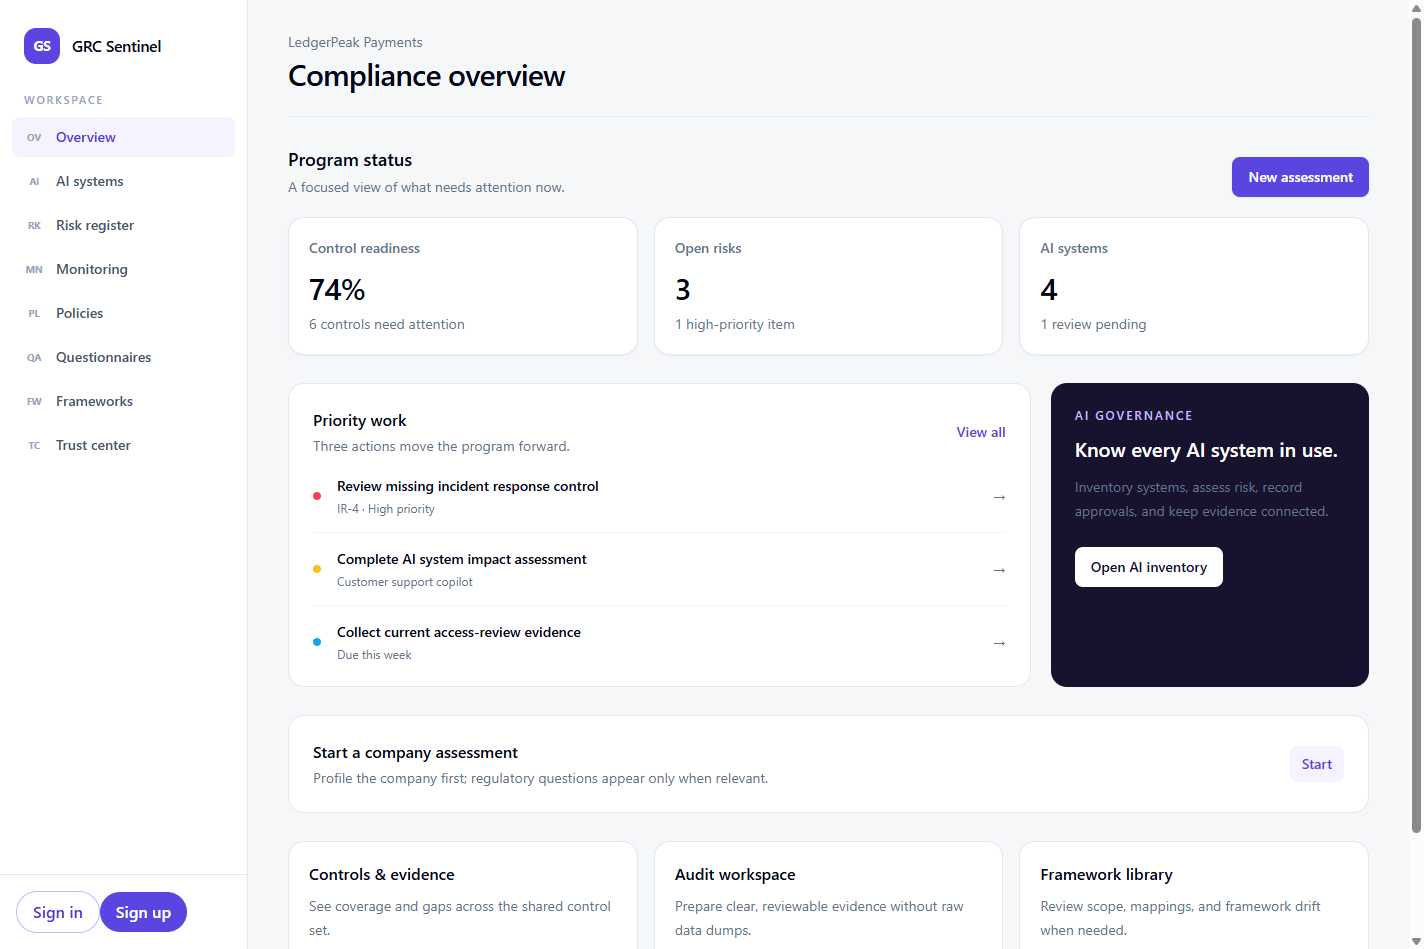
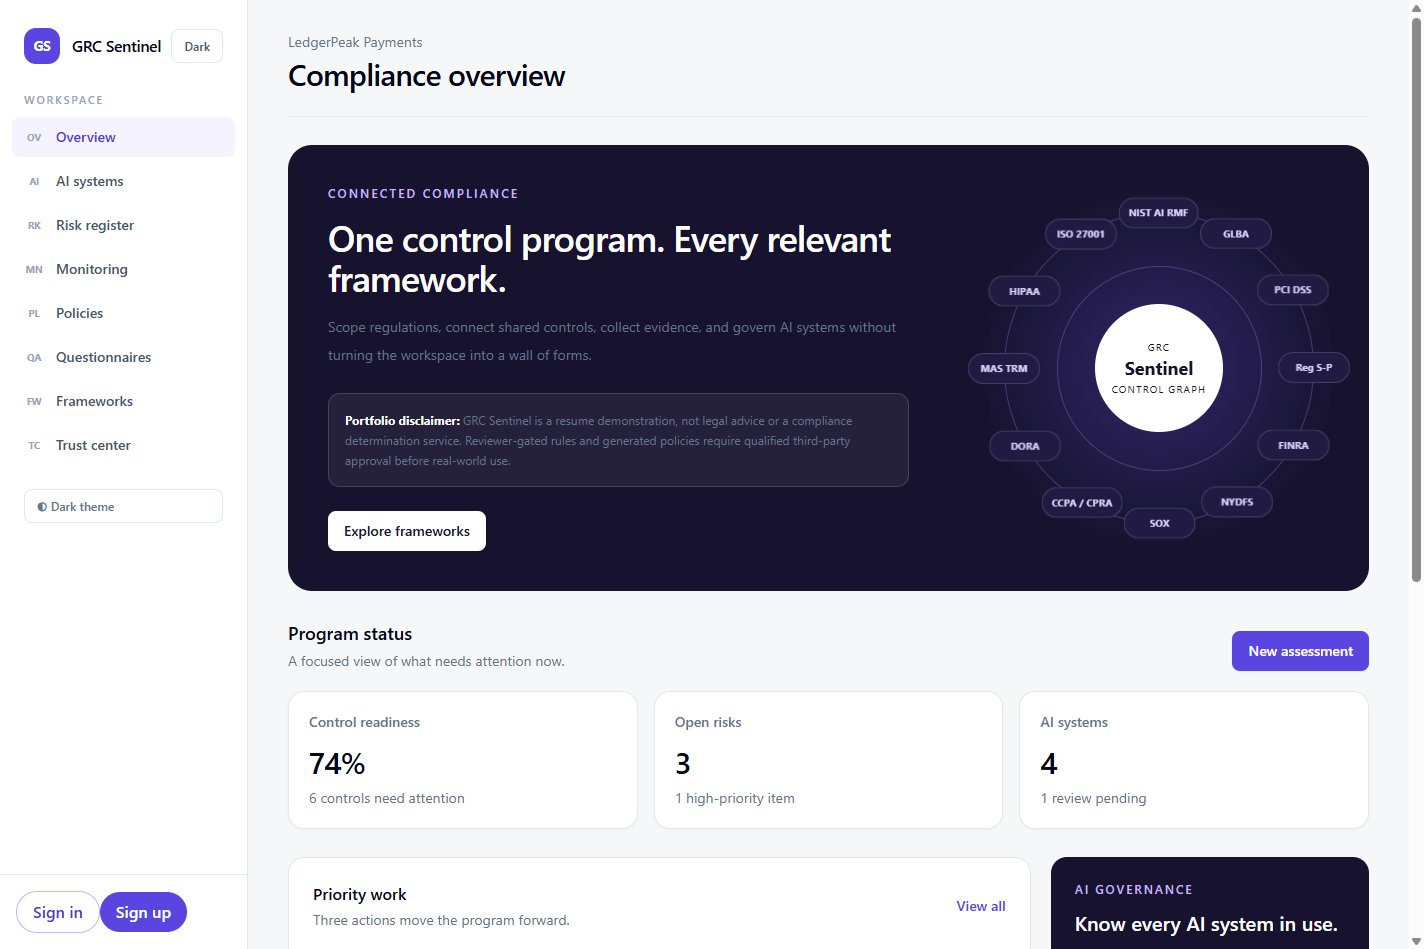
Add compliance orbit and theme switcher

diff --git a/apps/web/src/app/globals.css b/apps/web/src/app/globals.css
@@ -66,6 +66,89 @@ body {
   border-color: #e2e8f0;
 }
 
+.compliance-wheel {
+  position: relative;
+  min-height: 390px;
+  display: grid;
+  place-items: center;
+  background: radial-gradient(circle, rgba(104, 78, 232, 0.32), transparent 58%);
+}
+
+.compliance-wheel::before,
+.compliance-wheel::after {
+  content: "";
+  position: absolute;
+  width: 310px;
+  height: 310px;
+  border: 1px solid rgba(196, 181, 253, 0.25);
+  border-radius: 999px;
+}
+
+.compliance-wheel::after {
+  width: 205px;
+  height: 205px;
+}
+
+.compliance-wheel__core {
+  z-index: 2;
+  display: grid;
+  width: 128px;
+  height: 128px;
+  place-content: center;
+  border: 1px solid rgba(255, 255, 255, 0.2);
+  border-radius: 999px;
+  background: #fff;
+  color: #17132f;
+  text-align: center;
+}
+
+.compliance-wheel__core span,
+.compliance-wheel__core small { font-size: 10px; text-transform: uppercase; letter-spacing: 0.12em; }
+.compliance-wheel__core strong { font-size: 18px; }
+.compliance-wheel__track { position: absolute; width: 310px; height: 310px; animation: orbit-spin 38s linear infinite; }
+.compliance-wheel__item { position: absolute; left: 50%; top: 50%; transform: rotate(var(--angle)) translateY(-155px); transform-origin: 0 0; }
+.compliance-wheel__item > span { display: block; min-width: 72px; transform: translate(-50%, -50%) rotate(var(--reverse-angle)); border: 1px solid rgba(255,255,255,.16); border-radius: 999px; background: #211b43; padding: 7px 9px; color: #ddd6fe; font-size: 10px; font-weight: 700; text-align: center; white-space: nowrap; animation: orbit-counter-spin 38s linear infinite; }
+
+@keyframes orbit-spin { to { transform: rotate(360deg); } }
+@keyframes orbit-counter-spin { to { transform: translate(-50%, -50%) rotate(calc(var(--reverse-angle) - 360deg)); } }
+
+html[data-theme="dark"] body,
+html[data-theme="dark"] .app-shell { background: #0d0b18; color: #f8fafc; }
+html[data-theme="dark"] .app-shell > aside,
+html[data-theme="dark"] .app-shell > aside > div,
+html[data-theme="dark"] .app-shell main,
+html[data-theme="dark"] .app-shell main.bg-black,
+html[data-theme="dark"] .app-shell main .bg-black,
+html[data-theme="dark"] .app-shell main .bg-white,
+html[data-theme="dark"] .app-shell main .bg-zinc-950 { background: #151225; color: #f8fafc; }
+html[data-theme="dark"] .app-shell main.bg-\[\#f5f7f9\] { background: #0d0b18; }
+html[data-theme="dark"] .app-shell .border-slate-200,
+html[data-theme="dark"] .app-shell main .border-zinc-700,
+html[data-theme="dark"] .app-shell main .border-zinc-800 { border-color: #312d46; }
+html[data-theme="dark"] .app-shell .text-slate-950,
+html[data-theme="dark"] .app-shell .text-slate-100 { color: #f8fafc; }
+html[data-theme="dark"] .app-shell .text-slate-500,
+html[data-theme="dark"] .app-shell .text-slate-400,
+html[data-theme="dark"] .app-shell .text-slate-300 { color: #aaa5bd; }
+html[data-theme="dark"] .app-shell .bg-violet-50 { background: rgba(255,255,255,.1); }
+html[data-theme="dark"] .app-shell button.bg-\[\#5b45e0\],
+html[data-theme="dark"] .app-shell a.bg-\[\#5b45e0\] { background: #fff; color: #17132f; }
+html[data-theme="dark"] .hero-panel,
+html[data-theme="dark"] .hero-panel h2 { color: #fff; }
+html[data-theme="dark"] .hero-panel .compliance-wheel__core { background: #fff; color: #17132f; }
+
+@media (max-width: 640px) {
+  .compliance-wheel { min-height: 340px; }
+  .compliance-wheel::before,
+  .compliance-wheel__track { width: 270px; height: 270px; }
+  .compliance-wheel__item { transform: rotate(var(--angle)) translateY(-135px); }
+}
+
+@media (prefers-reduced-motion: reduce) {
+  .compliance-wheel__track,
+  .compliance-wheel__item > span { animation-play-state: paused; }
+}
+
 .scope-form > fieldset:nth-of-type(n + 2):nth-of-type(-n + 10) {
   display: none;
 }

diff --git a/apps/web/src/components/app-shell.tsx b/apps/web/src/components/app-shell.tsx
@@ -2,6 +2,7 @@
 
 import Link from "next/link";
 import { usePathname } from "next/navigation";
+import { useEffect, useState } from "react";
 import { AuthControls } from "./auth-controls";
 
 const navigation = [
@@ -17,6 +18,21 @@ const navigation = [
 
 export function AppShell({ children }: { children: React.ReactNode }) {
   const pathname = usePathname();
+  const [dark, setDark] = useState(false);
+
+  useEffect(() => {
+    const saved = localStorage.getItem("grc-theme") === "dark";
+    setDark(saved);
+    document.documentElement.dataset.theme = saved ? "dark" : "light";
+  }, []);
+
+  function toggleTheme() {
+    const next = !dark;
+    setDark(next);
+    document.documentElement.dataset.theme = next ? "dark" : "light";
+    localStorage.setItem("grc-theme", next ? "dark" : "light");
+  }
+
   if (pathname.startsWith("/sign-") || pathname.startsWith("/audit/share/")) return children;
 
   return (
@@ -27,12 +43,12 @@ export function AppShell({ children }: { children: React.ReactNode }) {
             <span className="grid size-9 place-items-center rounded-xl bg-[#5b45e0] text-sm font-bold text-white">GS</span>
             <span>GRC Sentinel</span>
           </Link>
-          <details className="relative lg:hidden">
+          <div className="flex items-center gap-2"><button type="button" onClick={toggleTheme} className="rounded-lg border border-slate-200 px-3 py-2 text-xs font-semibold text-slate-600" aria-label={`Use ${dark ? "light" : "dark"} theme`}>{dark ? "Light" : "Dark"}</button><details className="relative lg:hidden">
             <summary className="cursor-pointer list-none rounded-lg border border-slate-200 px-3 py-2 text-sm">Menu</summary>
             <nav className="absolute right-0 z-30 mt-2 w-56 rounded-xl border border-slate-200 bg-white p-2 shadow-xl">
               {navigation.map(([href, label]) => <Link key={href} href={href} className="block rounded-lg px-3 py-2 text-sm hover:bg-slate-100">{label}</Link>)}
             </nav>
-          </details>
+          </details></div>
         </div>
         <nav className="hidden px-3 lg:block" aria-label="Primary navigation">
           <p className="px-3 pb-2 text-[11px] font-semibold uppercase tracking-[0.16em] text-slate-400">Workspace</p>
@@ -41,6 +57,7 @@ export function AppShell({ children }: { children: React.ReactNode }) {
             return <Link key={href} href={href} className={`mb-1 flex items-center gap-3 rounded-lg px-3 py-2.5 text-sm font-medium ${active ? "bg-violet-50 text-[#5138d4]" : "text-slate-600 hover:bg-slate-50 hover:text-slate-950"}`}><span className="w-5 text-center text-[10px] font-bold tracking-tight text-slate-400" aria-hidden>{icon}</span>{label}</Link>;
           })}
         </nav>
+        <button type="button" onClick={toggleTheme} className="mx-6 mt-6 hidden w-[199px] rounded-lg border border-slate-200 px-3 py-2 text-left text-xs font-semibold text-slate-500 lg:block">{dark ? "☀  Light theme" : "◐  Dark theme"}</button>
         <div className="absolute bottom-0 hidden w-[247px] border-t border-slate-200 bg-white p-4 lg:block"><AuthControls /></div>
       </aside>
       <div className="min-w-0">{children}</div>

diff --git a/apps/web/src/app/page.tsx b/apps/web/src/app/page.tsx
@@ -17,6 +17,8 @@ const work = [
   ["Collect current access-review evidence", "Due this week", "/monitoring"],
 ] as const;
 
+const regimes = ["GLBA", "PCI DSS", "Reg S-P", "FINRA", "NYDFS", "SOX", "CCPA / CPRA", "DORA", "MAS TRM", "HIPAA", "ISO 27001", "NIST AI RMF"];
+
 export default function Home() {
   const [assessmentOpen, setAssessmentOpen] = useState(false);
   return (
@@ -26,7 +28,23 @@ export default function Home() {
         <div className="flex items-center gap-3 lg:hidden"><AuthControls /></div>
       </header>
 
-      <section className="py-7" aria-labelledby="program-status">
+      <section className="hero-panel my-7 grid overflow-hidden rounded-3xl bg-[#17132f] text-white lg:grid-cols-[minmax(0,1fr)_420px]" aria-labelledby="platform-heading">
+        <div className="flex flex-col justify-center p-7 sm:p-10">
+          <p className="text-xs font-semibold uppercase tracking-[0.18em] text-violet-300">Connected compliance</p>
+          <h2 id="platform-heading" className="mt-4 max-w-xl text-3xl font-semibold tracking-tight sm:text-4xl">One control program. Every relevant framework.</h2>
+          <p className="mt-4 max-w-xl text-sm leading-7 text-slate-300">Scope regulations, connect shared controls, collect evidence, and govern AI systems without turning the workspace into a wall of forms.</p>
+          <div className="mt-6 rounded-xl border border-white/15 bg-white/[0.06] p-4 text-xs leading-5 text-slate-300"><strong className="text-white">Portfolio disclaimer:</strong> GRC Sentinel is a resume demonstration, not legal advice or a compliance determination service. Reviewer-gated rules and generated policies require qualified third-party approval before real-world use.</div>
+          <Link href="/framework-drift" className="mt-6 w-fit rounded-lg bg-white px-4 py-2.5 text-sm font-semibold text-[#17132f]">Explore frameworks</Link>
+        </div>
+        <div className="compliance-wheel" aria-label="Frameworks represented in GRC Sentinel">
+          <div className="compliance-wheel__core"><span>GRC</span><strong>Sentinel</strong><small>Control graph</small></div>
+          <div className="compliance-wheel__track" aria-hidden="true">
+            {regimes.map((regime, index) => <span key={regime} className="compliance-wheel__item" style={{ "--angle": `${index * 30}deg`, "--reverse-angle": `${index * -30}deg` } as React.CSSProperties}><span>{regime}</span></span>)}
+          </div>
+        </div>
+      </section>
+
+      <section className="pb-7" aria-labelledby="program-status">
         <div className="mb-5 flex flex-wrap items-end justify-between gap-3">
           <div><h2 id="program-status" className="text-lg font-semibold">Program status</h2><p className="mt-1 text-sm text-slate-500">A focused view of what needs attention now.</p></div>
           <button type="button" onClick={() => { setAssessmentOpen(true); requestAnimationFrame(() => document.querySelector("#new-assessment")?.scrollIntoView({ behavior: "smooth" })); }} className="rounded-lg bg-[#5b45e0] px-4 py-2.5 text-sm font-semibold text-white shadow-sm hover:bg-[#4933c7]">New assessment</button>
